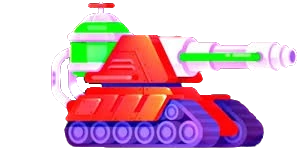
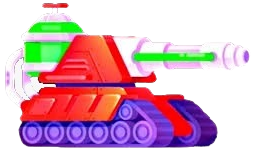
commit by dhyan

diff --git a/core/src/com/mygdx/game/Screens/GameScreen/GameScreen.java b/core/src/com/mygdx/game/Screens/GameScreen/GameScreen.java
@@ -7,6 +7,8 @@ import com.badlogic.gdx.Gdx;
 import com.badlogic.gdx.graphics.GL20;
 import com.badlogic.gdx.graphics.OrthographicCamera;
 import com.badlogic.gdx.graphics.Texture;
+import com.badlogic.gdx.graphics.g2d.Sprite;
+import com.badlogic.gdx.graphics.g2d.SpriteBatch;
 import com.badlogic.gdx.graphics.g3d.utils.CameraInputController;
 import com.badlogic.gdx.math.Vector2;
 import com.badlogic.gdx.physics.box2d.*;
@@ -15,6 +17,7 @@ import com.badlogic.gdx.scenes.scene2d.Stage;
 import com.badlogic.gdx.scenes.scene2d.actions.AddListenerAction;
 import com.badlogic.gdx.scenes.scene2d.ui.Image;
 import com.badlogic.gdx.scenes.scene2d.utils.ClickListener;
+import com.badlogic.gdx.utils.Array;
 import com.badlogic.gdx.utils.viewport.StretchViewport;
 import com.mygdx.game.AP_Game;
 import com.mygdx.game.Screens.player1.AtomicTank1;
@@ -22,6 +25,7 @@ import com.mygdx.game.Screens.player1.Mark1Tank1;
 import com.mygdx.game.Screens.player1.ToxicTank1;
 import com.badlogic.gdx.InputProcessor;
 
+import java.util.Arrays;
 import java.util.Objects;
 
 import static com.mygdx.game.AP_Game.camera;
@@ -56,6 +60,13 @@ public class GameScreen implements Screen {
     private Body player1TankBody;
     private Body player2TankBody;
 
+    private Sprite player1TankSprite;
+    private Sprite player2TankSprite;
+
+    private SpriteBatch batch;
+
+    private Array<Body> bodies= new Array<Body>();
+
 
 
 
@@ -65,6 +76,8 @@ public class GameScreen implements Screen {
         camera = new OrthographicCamera();
         this.stage = new Stage(new StretchViewport(AP_Game.WIDTH, AP_Game.HEIGHT, camera));
         Gdx.input.setInputProcessor(stage);
+
+        batch = new SpriteBatch();
 
         if(game.getPlayer1Tank().equals("AtomicTank")){
             player1Tank = new Texture("Atomic.png");}
@@ -76,18 +89,9 @@ public class GameScreen implements Screen {
         if(game.getPlayer2Tank().equals("AtomicTank")){
             player2Tank = new Texture("Atomic.png");}
         else if(game.getPlayer2Tank().equals("ToxicTank")){
-            player2Tank = new Texture("Toxic_reverse.png");}
+            player2Tank = new Texture("Toxic.png");}
         else if(game.getPlayer2Tank().equals("Mark1Tank")){
             player2Tank = new Texture("Mark1.png");}
-
-        player1TankImage = new Image(player1Tank);
-        player2TankImage = new Image(player2Tank);
-
-        player1TankImage.setPosition(0,200);
-        player2TankImage.setPosition(1000,200);
-
-        stage.addActor(player1TankImage);
-        stage.addActor(player2TankImage);
 
         }
 
@@ -190,15 +194,15 @@ public class GameScreen implements Screen {
         FixtureDef Player1 = new FixtureDef();
         Player1.shape = ballshape;
         Player1.density = 2.5f;
-        Player1.friction = 0.75f;
-        Player1.restitution = 0.75f;
+        Player1.friction = 1f;
+        Player1.restitution = 0.5f;
         balldef1.position.set(-50, 100);
 
         FixtureDef Player2 = new FixtureDef();
         Player2.shape = ballshape;
         Player2.density = 2.5f;
-        Player2.friction = 0.70f;
-        Player2.restitution = 0.75f;
+        Player2.friction = 1f;
+        Player2.restitution = 0.5f;
         balldef2.position.set(50, 100);
 
 
@@ -216,15 +220,30 @@ public class GameScreen implements Screen {
         //fixture definition
         fixtureDef.shape = groundshape;
         fixtureDef.density = 1.0f;
-        fixtureDef.friction = 0.5f;
+        fixtureDef.friction = 3;
         fixtureDef.restitution = 0;
 
 
         //CREATION
         player1TankBody = world.createBody(balldef1);
         player1TankBody.createFixture(Player1);
+
+        player1TankSprite = new Sprite(player1Tank);
+        player1TankSprite.setSize(200, 100);
+        player1TankSprite.setPosition(50, 100);
+
+        player1TankBody.setUserData(player1TankSprite);
+
         player2TankBody = world.createBody(balldef2);
         player2TankBody.createFixture(Player2);
+
+        player2TankSprite = new Sprite(player2Tank);
+        player2TankSprite.setSize(200, 100);
+        player2TankSprite.flip(true, false);
+        player2TankSprite.setPosition(200, 100);
+
+        player2TankBody.setUserData(player2TankSprite);
+
         world.createBody(bodyDef).createFixture(fixtureDef);
         groundshape.dispose();
         ballshape.dispose();
@@ -244,6 +263,18 @@ public class GameScreen implements Screen {
         world.step(1/60f, 8, 3);
         player1TankBody.applyForceToCenter(movement, true);
         player2TankBody.applyForceToCenter(movement2, true);
+
+        batch.setProjectionMatrix(camera.combined);
+        batch.begin();
+        world.getBodies(bodies);
+        for(Body body : bodies)
+            if(body.getUserData() instanceof Sprite){
+                Sprite sprite = (Sprite) body.getUserData();
+                sprite.setPosition(body.getPosition().x, body.getPosition().y);
+                sprite.draw(batch);
+            }
+
+        batch.end();
 
         game.batch.begin();
         game.batch.end();
